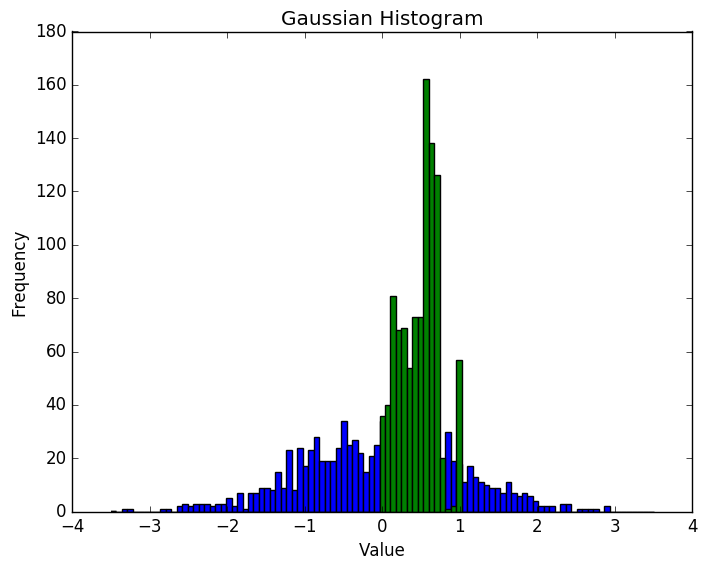
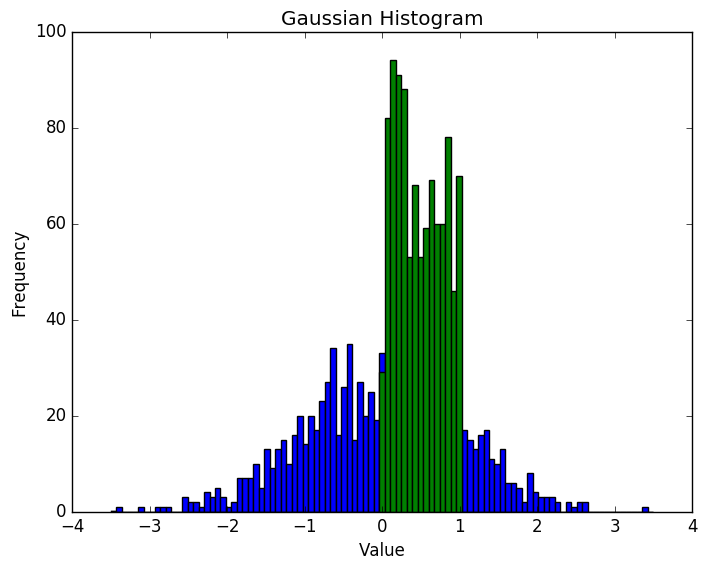
added the results

diff --git a/gan.py b/gan.py
@@ -57,7 +57,7 @@ class GAN:
         # Implement the loss functions for training a GAN
         # -------------------
         self.D_loss = -tf.reduce_mean(tf.log(D_real) + tf.log(1.0 - D_fake))
-        self.G_loss = -tf.reduce_mean(tf.log(1.0 - D_fake))
+        self.G_loss = -tf.reduce_mean(tf.log(D_fake))
 
         self.D_solver = tf.train.AdamOptimizer().minimize(self.D_loss, var_list=self.theta_D)
         self.G_solver = tf.train.AdamOptimizer().minimize(self.G_loss, var_list=self.theta_G)
